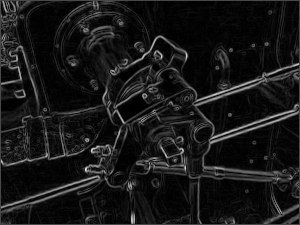
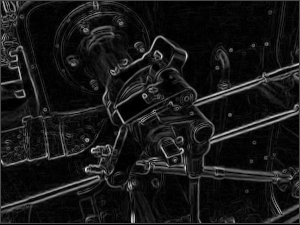
tp2.ex04: split parameters are entered by user

Changed region(s): [[0.0, 0.9644, 1.0, 1.0]]

diff --git a/Tp2/Ex04/Client/RunClient.java b/Tp2/Ex04/Client/RunClient.java
@@ -44,10 +44,14 @@ public class RunClient {
     private static final String FILENAME_SUFFIX = "_sobel_filter";
 
     private Scanner sc = new Scanner(System.in);
-    private String host;
-    private int port;
     private String imagesPath;
     private EdgeDetectorClient edgeDetectorClient;
+    private BufferedImage originalImage;
+    private String originalImageUrl;
+
+    private int rowsToSplitImage;
+    private int colsToSplitImage;
+    private int redundantPixels;
 
     public RunClient(String serverHost, int serverPort, String imagesPath, String[] servicesDNS) throws RemoteException, NotBoundException, ConnectException {
         newClient(serverHost, serverPort, servicesDNS);
@@ -55,27 +59,87 @@ public class RunClient {
     }
 
     private void newClient(String host, int port, String[] servicesDNS) throws RemoteException, NotBoundException {
-        this.host = host;
-        this.port = port;
         this.edgeDetectorClient = new EdgeDetectorClient(host, port, servicesDNS);
     }
 
     public void start() throws IOException {
-        String imageUrl = askForImage();
-        BufferedImage originalImage = this.imageFromUrl(imageUrl);
+        this.setOriginalImage();
+        this.setSplitParameters();
 
-        BufferedImage finalImage = this.onCallingSobel(originalImage);
 
-        String filename = this.filenameFromPath(imageUrl) + FILENAME_SUFFIX;
-        String extension = this.getFilenameExtension(imageUrl);
+        BufferedImage finalImage = this.onCallingSobel();
 
-        System.out.println("Image saved in: " + this.saveImage(finalImage, filename, extension) );
+        String filename = this.filenameFromPath(this.originalImageUrl) + FILENAME_SUFFIX;
+        String extension = this.getFilenameExtension(this.originalImageUrl);
+        CommonMain.display("Image saved in: " + this.saveImage(finalImage, filename, extension) );
     }
 
-    private BufferedImage onCallingSobel(BufferedImage originalImage) throws RemoteException {
-        System.out.println("Image read. Starting...");
+    private void setSplitParameters() {
+        this.rowsToSplitImage = this.askForRows();
+        this.colsToSplitImage = this.askForCols();
+        this.redundantPixels = this.askForRedundantPixels();
+    }
+
+    private int askForRows() {
+        final int DEFAULT_ROWS = 2;
+        final int MIN_VALUE = 1;
+        int out = DEFAULT_ROWS;
+
+        System.out.print(String.format("Number of rows to split image [%d]: ", DEFAULT_ROWS));
+        String rowsEntered = sc.nextLine();
+        try {
+            int value = Integer.parseInt(rowsEntered);
+            if (!(value < MIN_VALUE))
+                out = value;
+        } catch (NumberFormatException e){}
+
+        return out;
+    }
+
+    private int askForCols() {
+        final int DEFAULT_COLS = 2;
+        final int MIN_VALUE = 1;
+        int out = DEFAULT_COLS;
+
+        System.out.print(String.format("Number of cols to split image [%d]: ", DEFAULT_COLS));
+        String rowsEntered = sc.nextLine();
+        try {
+            int value = Integer.parseInt(rowsEntered);
+            if (!(value < MIN_VALUE))
+                out = value;
+        } catch (NumberFormatException e){}
+
+        return out;
+    }
+
+    private int askForRedundantPixels() {
+        final int DEFAULT_REDUNDANT_PIXELS = 1;
+        final int MIN_VALUE = 0;
+        int out = DEFAULT_REDUNDANT_PIXELS;
+        System.out.print(String.format("Number of redundant pixels  [%d]: ", DEFAULT_REDUNDANT_PIXELS));
+        String rowsEntered = sc.nextLine();
+        try {
+            int value = Integer.parseInt(rowsEntered);
+            if (!(value < MIN_VALUE))
+                out = value;
+        } catch (NumberFormatException e){}
+        return out;
+    }
+
+    private void setOriginalImage() throws IOException {
+        this.originalImageUrl = askForImage();
+        this.originalImage = this.imageFromUrl(this.originalImageUrl);
+    }
+
+    private BufferedImage onCallingSobel() throws RemoteException {
+        CommonMain.createSection("Applying Sobel Operator");
         long startTime = System.currentTimeMillis();
-        BufferedImage finalImage = this.edgeDetectorClient.detectEdges(originalImage);
+        BufferedImage finalImage = this.edgeDetectorClient.detectEdges(
+                this.originalImage,
+                this.rowsToSplitImage,
+                this.colsToSplitImage,
+                this.redundantPixels
+        );
         long endTime = System.currentTimeMillis();
         CommonMain.createSection("Execution time: " + (endTime - startTime) + " miliseconds");
 
@@ -105,7 +169,7 @@ public class RunClient {
         DEFAULT = "https://s29.postimg.org/kjex7dx6f/300px-_Valve_original_1.png";
         //DEFAULT = "http://4.bp.blogspot.com/_6ZIqLRChuQg/TF0-bhL6zoI/AAAAAAAAAoE/56OJXkRAFz4/s1600/lenaOriginal.png";
         //DEFAULT = SUPER_BIG_IMAGE;
-        System.out.print("Enter image url (default image if no input): ");
+        System.out.print(String.format("Enter image url [%s]: ", DEFAULT));
         String imageUrl = sc.nextLine();
 
         return (imageUrl.isEmpty())? DEFAULT : imageUrl;

diff --git a/Tp2/Ex04/Client/EdgeDetectorClient.java b/Tp2/Ex04/Client/EdgeDetectorClient.java
@@ -23,12 +23,6 @@ public class EdgeDetectorClient {
 
     private Registry registry;
 
-    // Will split image in 4 parts: 2 rows and 2 cols
-    public static final int IMAGE_ROWS = 3;
-    public static final int IMAGE_COLS = 3;
-    public static final int REDUNDANT_PIXELS = 1;
-
-
     // Many services will be called to apply sobel filter
     private String[] servicesDNS;
     private ArrayList<IEdgeDetectorService> iEdgeDetectorServices;
@@ -55,15 +49,17 @@ public class EdgeDetectorClient {
         }
     }
 
-    public ImageSerializable detectEdges(ImageSerializable image) throws RemoteException {
-        return new ImageSerializable(this.callEdgeDetector(image.getBufferedImage()));
-    }
-    public BufferedImage detectEdges(BufferedImage image) throws RemoteException {
-        return this.callEdgeDetector(image);
+    public BufferedImage detectEdges(BufferedImage image, int rowsToSplitImage, int colsToSplitImage, int redundantPixels) throws RemoteException {
+        return this.callEdgeDetector(image, rowsToSplitImage, colsToSplitImage, redundantPixels);
     }
 
-    private BufferedImage callEdgeDetector(BufferedImage originalImage) throws RemoteException {
-        ImageChunkHandler imageChunkHandler = new ImageChunkHandler(IMAGE_ROWS, IMAGE_COLS, REDUNDANT_PIXELS, originalImage);
+    private BufferedImage callEdgeDetector(BufferedImage originalImage, int rowsToSplitImage, int colsToSplitImage, int redundantPixels) throws RemoteException {
+        ImageChunkHandler imageChunkHandler = new ImageChunkHandler(
+                rowsToSplitImage,
+                colsToSplitImage,
+                redundantPixels,
+                originalImage
+        );
 
         // Original image data displayed:
         System.out.println("Original Image: " + originalImage.getWidth() + "x" + originalImage.getHeight());

diff --git a/Tp2/Ex04/Common/IEdgeDetectorService.java b/Tp2/Ex04/Common/IEdgeDetectorService.java
@@ -9,9 +9,7 @@ import java.rmi.RemoteException;
  * Time: 19:41
  */
 public interface IEdgeDetectorService extends Remote {
-    public static final String DNS_NAME = "EDGE_DETECTOR_SERVICE";
 
-    public ImageSerializable detectEdges(ImageSerializable image) throws RemoteException;
     public int[][] detectEdges(int[][] imagePixels) throws RemoteException;
 
 }
